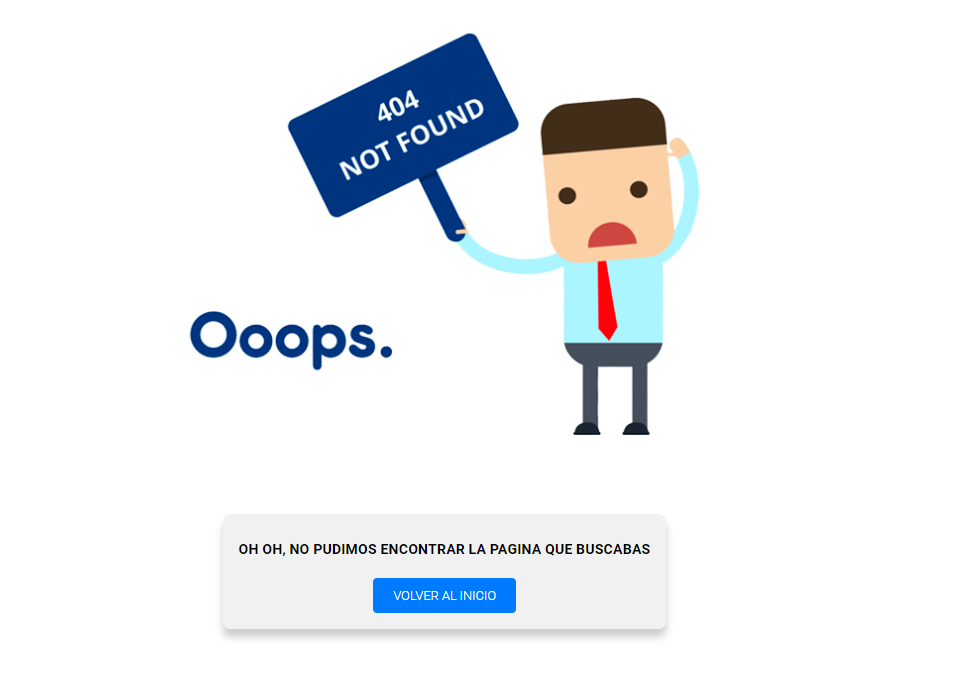
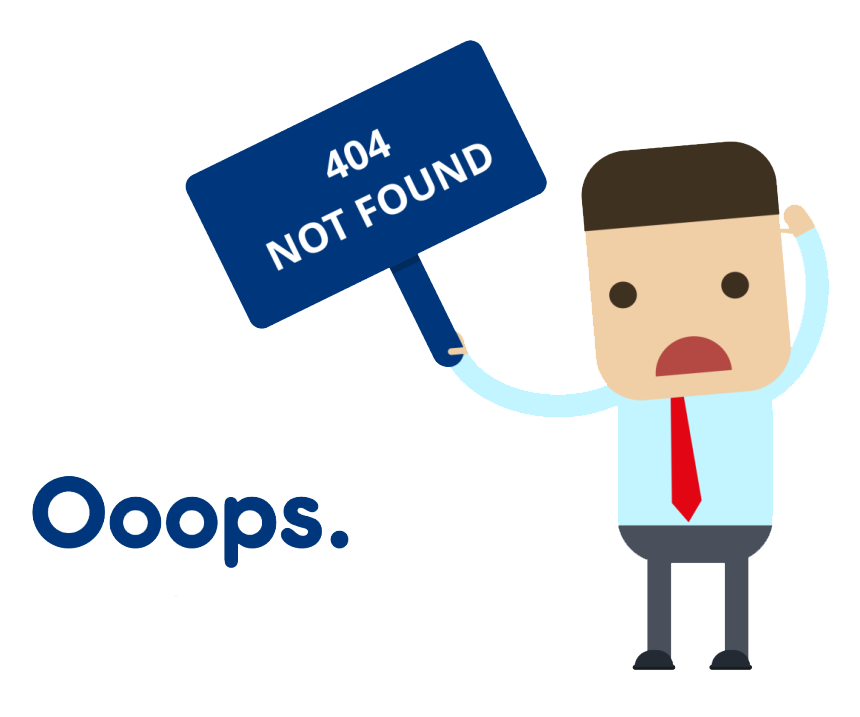
responsive del 404 terminado

Changed region(s): [[0.1814, 0.0311, 0.9674, 0.932], [0.0302, 0.6524, 0.6953, 0.963]]

diff --git a/src/css/ErrorPage.css b/src/css/ErrorPage.css
@@ -9,8 +9,8 @@
 .imagen-fondo {
 	margin-bottom: 10rem;
 	position: absolute;
-	width: 50%;
-	height: 50%;
+	width: 40%;
+	height: 70%;
 	background-image: url(../assets/404.png);
 	background-size: cover;
 }
@@ -24,7 +24,8 @@
 
 .contenido h1 {
 	font-size: 1.5rem;
-	margin-bottom: 20px;
+	margin-bottom: 30px;
+	margin-top: 80px;
 }
 
 .contenido button {
@@ -40,4 +41,147 @@
 
 .contenido button:hover {
 	background-color: #0056b3;
+}
+/*media querys*/
+
+@media only screen and (max-width: 344px) {
+	.pagina-error {
+		margin: 0rem;
+	}
+	.imagen-fondo {
+		width: 100%;
+		height: 40%;
+	}
+	.contenido h1 {
+		font-size: 1rem;
+		margin-bottom: 2rem;
+		margin-top: 0rem;
+		margin-left: 0.5rem;
+	}
+}
+
+@media only screen and (min-width: 360px) and (max-width: 360px) {
+	.pagina-error {
+		margin-right: 1rem;
+		margin-left: 2rem;
+	}
+	.imagen-fondo {
+		width: 100%;
+		height: 40%;
+	}
+	.contenido h1 {
+		font-size: 1rem;
+		margin-bottom: 2rem;
+		margin-top: 0rem;
+	}
+}
+
+@media only screen and (min-width: 375px) and (max-width: 380px) {
+	.pagina-error {
+		margin-right: 2rem;
+		margin-left: 2rem;
+	}
+	.imagen-fondo {
+		width: 100%;
+		height: 40%;
+	}
+	.contenido h1 {
+		font-size: 1rem;
+		margin-bottom: 2rem;
+		margin-top: 0rem;
+	}
+}
+@media screen and (max-width: 768px) {
+	.imagen-fondo {
+		width: 60%;
+		height: 40%;
+	}
+	.contenido h1 {
+		font-size: 1rem;
+		margin-bottom: 2rem;
+		margin-top: 0rem;
+	}
+}
+@media only screen and (min-width: 390px) and (max-width: 430px) {
+	.pagina-error {
+		margin: 1rem;
+	}
+	.imagen-fondo {
+		width: 100%;
+		height: 40%;
+	}
+	.contenido h1 {
+		font-size: 1rem;
+		margin-bottom: 2rem;
+		margin-top: 0rem;
+	}
+}
+@media screen and (max-width: 430px) {
+	.imagen-fondo {
+		width: 100%;
+		height: 40%;
+	}
+	.contenido h1 {
+		font-size: 1rem;
+		margin-bottom: 2rem;
+		margin-top: 0rem;
+	}
+}
+@media screen and (min-width: 540px) and (max-width: 540px) {
+	.imagen-fondo {
+		width: 60%;
+		height: 40%;
+	}
+	.contenido h1 {
+		font-size: 1rem;
+		margin-bottom: 2rem;
+		margin-top: 0rem;
+	}
+}
+@media screen and (min-width: 820px) and (max-width: 820px) {
+	.imagen-fondo {
+		width: 70%;
+		height: 40%;
+	}
+	.contenido h1 {
+		font-size: 1rem;
+		margin-bottom: 2rem;
+		margin-top: 0rem;
+	}
+}
+@media screen and (min-width: 1024px) and (max-width: 1024px) {
+	.imagen-fondo {
+		width: 60%;
+		height: 40%;
+	}
+	.contenido h1 {
+		font-size: 1rem;
+		margin-bottom: 2rem;
+		margin-top: 0rem;
+	}
+}
+@media only screen and (min-width: 853px) and (max-width: 912px) {
+	.pagina-error {
+		margin: 1rem;
+	}
+	.imagen-fondo {
+		width: 70%;
+		height: 40%;
+	}
+	.contenido h1 {
+		font-size: 1rem;
+		margin-bottom: 2rem;
+		margin-top: 0rem;
+	}
+}
+@media screen and (min-width: 1024px) and (max-width: 1280px) and (max-height: 800px) {
+	.imagen-fondo {
+		width: 40%;
+		height: 60%;
+	}
+	.contenido h1 {
+		font-size: 1rem;
+		margin-bottom: 2rem;
+		margin-top: 0rem;
+	}
 }
